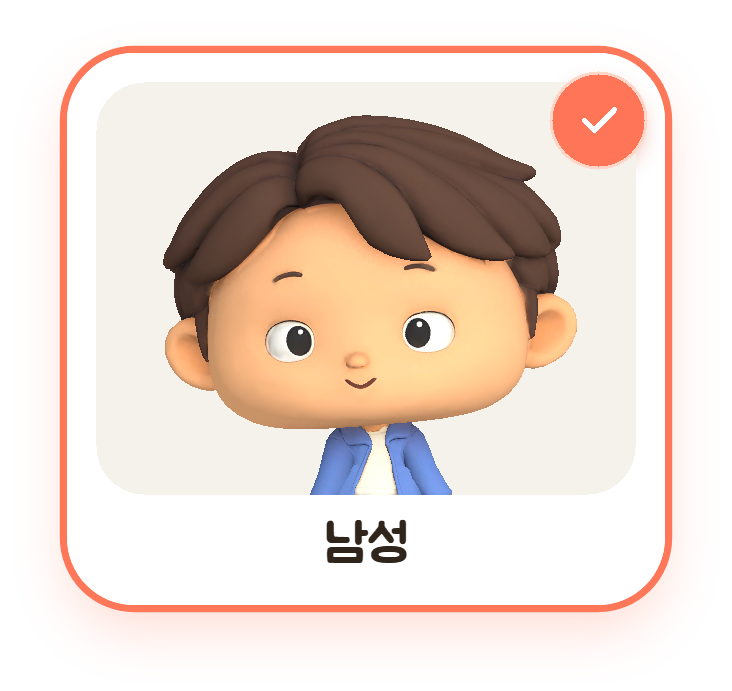
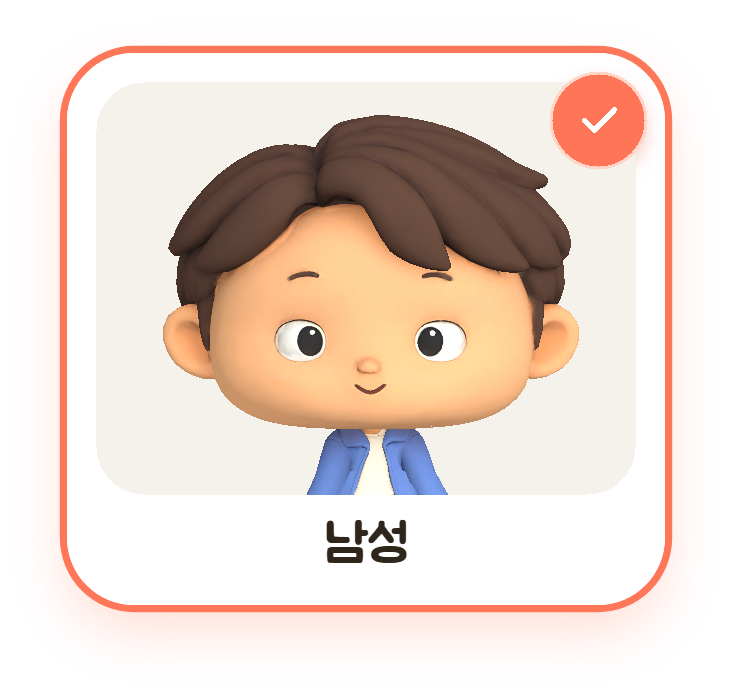
fix(frontend): 남성 선택 카드의 얼굴과 몸통을 정면으로 정렬 [S15P31A305-530]

diff --git a/frontend/UnityClient/Assets/Scripts/Editor/Onboarding/PlayerPortraitBuilder.cs b/frontend/UnityClient/Assets/Scripts/Editor/Onboarding/PlayerPortraitBuilder.cs
@@ -56,11 +56,37 @@ namespace A305.EditorTools.Onboarding
             );
             var root = new GameObject("Portrait copy", typeof(CharacterController));
             var model = Object.Instantiate(definition.VisualPrefab, root.transform);
+            Animator animator = model.GetComponentInChildren<Animator>();
+            Transform headBone = animator.GetBoneTransform(HumanBodyBones.Head);
+            var torso = new[]
+            {
+                HumanBodyBones.Hips,
+                HumanBodyBones.Spine,
+                HumanBodyBones.Chest,
+                HumanBodyBones.UpperChest,
+                HumanBodyBones.Neck,
+                HumanBodyBones.Head,
+            }
+                .Select(animator.GetBoneTransform)
+                .Where(bone => bone != null)
+                .ToArray();
+            Quaternion[] rotations = torso.Select(bone => bone.rotation).ToArray();
+            Vector3 restFront = TripoModelPreview.GetViewDirection(model, 0);
             using var motion = new TripoMotionPreview(root);
             motion.Apply(TripoReviewMotion.Idle, 0);
-            Animator animator = model.GetComponentInChildren<Animator>();
-            using (var poseHandler = new HumanPoseHandler(animator.avatar, animator.transform))
+            Vector3 front = TripoModelPreview.GetViewDirection(model, 0);
+            if (id == "M")
             {
+                // 머리만 돌리면 Idle의 몸통 비틀림이 남는다. 골반부터 정면 자세를 복원한다.
+                Quaternion heading = Quaternion.FromToRotation(restFront, front);
+                for (int i = 0; i < torso.Length; i++)
+                    torso[i].rotation = heading * rotations[i];
+                FaceCamera(model, headBone, front);
+            }
+            else
+            {
+                // 여성 카드는 기존 촬영 자세를 그대로 유지한다.
+                using var poseHandler = new HumanPoseHandler(animator.avatar, animator.transform);
                 var pose = new HumanPose();
                 poseHandler.GetHumanPose(ref pose);
                 for (int i = 0; i < HumanTrait.MuscleName.Length; i++)
@@ -73,6 +99,7 @@ namespace A305.EditorTools.Onboarding
                         pose.muscles[i] = 0;
                 }
                 poseHandler.SetHumanPose(ref pose);
+                front = TripoModelPreview.GetViewDirection(model, 0);
             }
             var surfaces = new List<(Mesh Mesh, Transform Transform, Vector3[] BaseVertices)>();
             var skins = model.GetComponentsInChildren<SkinnedMeshRenderer>();
@@ -93,9 +120,6 @@ namespace A305.EditorTools.Onboarding
                 skin.enabled = false;
             }
             Bounds head = CharacterHeadProportions.HeadBounds(model);
-            Vector3 front = Vector3
-                .ProjectOnPlane(TripoModelPreview.GetViewDirection(model, 0), Vector3.up)
-                .normalized;
             var camera = new GameObject("Portrait camera").AddComponent<Camera>();
             camera.orthographic = true;
             // 캐릭터 높이·머리 위치 대신 사진에서 머리가 차지하는 높이와 위 여백을 맞춘다.
@@ -150,6 +174,84 @@ namespace A305.EditorTools.Onboarding
                 foreach (var surface in surfaces)
                     Object.DestroyImmediate(surface.Mesh);
             }
+        }
+
+        // 본의 축이 얼굴과 일치하지 않는 모델도 있어 실제 양쪽 눈 흰자 위치로 정면을 잡는다.
+        private static void FaceCamera(GameObject model, Transform headBone, Vector3 front)
+        {
+            Bounds head = CharacterHeadProportions.HeadBounds(model);
+            Vector3 right = Vector3.Cross(Vector3.up, front).normalized;
+            Bounds? leftEye = null,
+                rightEye = null;
+            foreach (var skin in model.GetComponentsInChildren<SkinnedMeshRenderer>())
+            {
+                string path = AssetDatabase.GetAssetPath(
+                    skin.sharedMaterial.GetTexture("_BaseMap")
+                );
+                if (string.IsNullOrEmpty(path))
+                    continue;
+                var texture = new Texture2D(2, 2);
+                var mesh = new Mesh();
+                try
+                {
+                    texture.LoadImage(File.ReadAllBytes(path));
+                    skin.BakeMesh(mesh, true);
+                    Vector3[] vertices = mesh.vertices;
+                    Vector2[] uv = mesh.uv;
+                    for (int i = 0; i < vertices.Length; i++)
+                    {
+                        Vector3 point = skin.transform.TransformPoint(vertices[i]);
+                        Vector3 offset = point - head.center;
+                        float x = Vector3.Dot(offset, right) / head.size.x;
+                        float y = (point.y - head.min.y) / head.size.y;
+                        if (
+                            Mathf.Abs(x) < .08f
+                            || Mathf.Abs(x) > .36f
+                            || y < .18f
+                            || y > .65f
+                            || Vector3.Dot(offset, front) < head.size.z * .2f
+                        )
+                            continue;
+                        Color color = texture.GetPixelBilinear(uv[i].x, uv[i].y);
+                        if (
+                            Mathf.Min(color.r, color.g, color.b) < .55f
+                            || Mathf.Max(color.r, color.g, color.b)
+                                - Mathf.Min(color.r, color.g, color.b)
+                                > .2f
+                        )
+                            continue;
+                        Bounds eye =
+                            (x < 0 ? leftEye : rightEye) ?? new Bounds(point, Vector3.zero);
+                        eye.Encapsulate(point);
+                        if (x < 0)
+                            leftEye = eye;
+                        else
+                            rightEye = eye;
+                    }
+                }
+                finally
+                {
+                    Object.DestroyImmediate(texture);
+                    Object.DestroyImmediate(mesh);
+                }
+            }
+            if (!leftEye.HasValue || !rightEye.HasValue)
+                throw new InvalidOperationException(
+                    "정면 촬영용 양쪽 눈 영역을 확인하지 못했습니다."
+                );
+            Quaternion correction = Quaternion.FromToRotation(
+                rightEye.Value.center - leftEye.Value.center,
+                right
+            );
+            float angle = Quaternion.Angle(Quaternion.identity, correction);
+            if (angle > 12)
+                throw new InvalidOperationException(
+                    "정면 촬영용 눈 영역이 예상 범위를 벗어났습니다."
+                );
+            headBone.rotation = correction * headBone.rotation;
+            Debug.Log(
+                $"카드 정면 보정: {model.name}, 눈 {leftEye.Value.center:F4} / {rightEye.Value.center:F4}, 회전 {angle:F2}도"
+            );
         }
 
         // 런타임 메시에는 표정 채널이 없으므로 촬영용으로 구운 메시의 입 주변만 부드럽게 변형한다.

diff --git a/frontend/UnityClient/Assets/Scripts/Onboarding/README.md b/frontend/UnityClient/Assets/Scripts/Onboarding/README.md
@@ -74,7 +74,7 @@
 
 ## 확인 방법
 
-캐릭터 선택 사진은 실제 남녀 플레이어의 정면 모습으로 만듭니다. 기본 상태는 편안한 입 모양이고, 선택하면 미소·코랄 테두리·체크 배지가 있는 사진으로 바뀝니다. 머리 높이는 사진 영역의 76%, 위 여백은 8%로 맞춰 캐릭터를 바꿔도 카드 속 크기와 위치가 달라지지 않게 촬영합니다. **Tools → A305 → Onboarding → Capture Player Portraits**로 `Art/UI/Entry`의 게스트·가입 카드 8장을 다시 촬영할 수 있습니다. 촬영용 메시 복사본의 입만 변형하므로 게임 캐릭터 원본과 런타임 표정에는 영향을 주지 않습니다. 기존 `ChoiceArt` 연결과 이미지 GUID를 유지합니다.
+캐릭터 선택 사진은 실제 남녀 플레이어의 정면 모습으로 만듭니다. 기본 상태는 편안한 입 모양이고, 선택하면 미소·코랄 테두리·체크 배지가 있는 사진으로 바뀝니다. 머리 높이는 사진 영역의 76%, 위 여백은 8%로 맞춰 캐릭터를 바꿔도 카드 속 크기와 위치가 달라지지 않게 촬영합니다. 남성 촬영 복사본은 골반부터 가슴·목·머리까지 정면 자세를 복원하고, 실제 양쪽 눈 위치로 얼굴의 좌우 회전·기울기를 맞춥니다. 여성은 기존 촬영 자세를 유지합니다. **Tools → A305 → Onboarding → Capture Player Portraits**로 `Art/UI/Entry`의 게스트·가입 카드 8장을 다시 촬영할 수 있습니다. 자세와 입 모양 변경은 촬영용 복사본에만 적용하므로 게임 캐릭터 원본과 런타임 표정에는 영향을 주지 않습니다. 기존 `ChoiceArt` 연결과 이미지 GUID를 유지합니다.
 
 1. **Tools → A305 → Onboarding → Build**로 프리팹·설정·씬을 만듭니다. 처음이면 **UI → Set Up Fonts**를 먼저 실행합니다.
 2. 백엔드를 local 프로필로 실행하고 `Scenes/Sandbox/OnboardingSandbox.unity`를 Play합니다.
